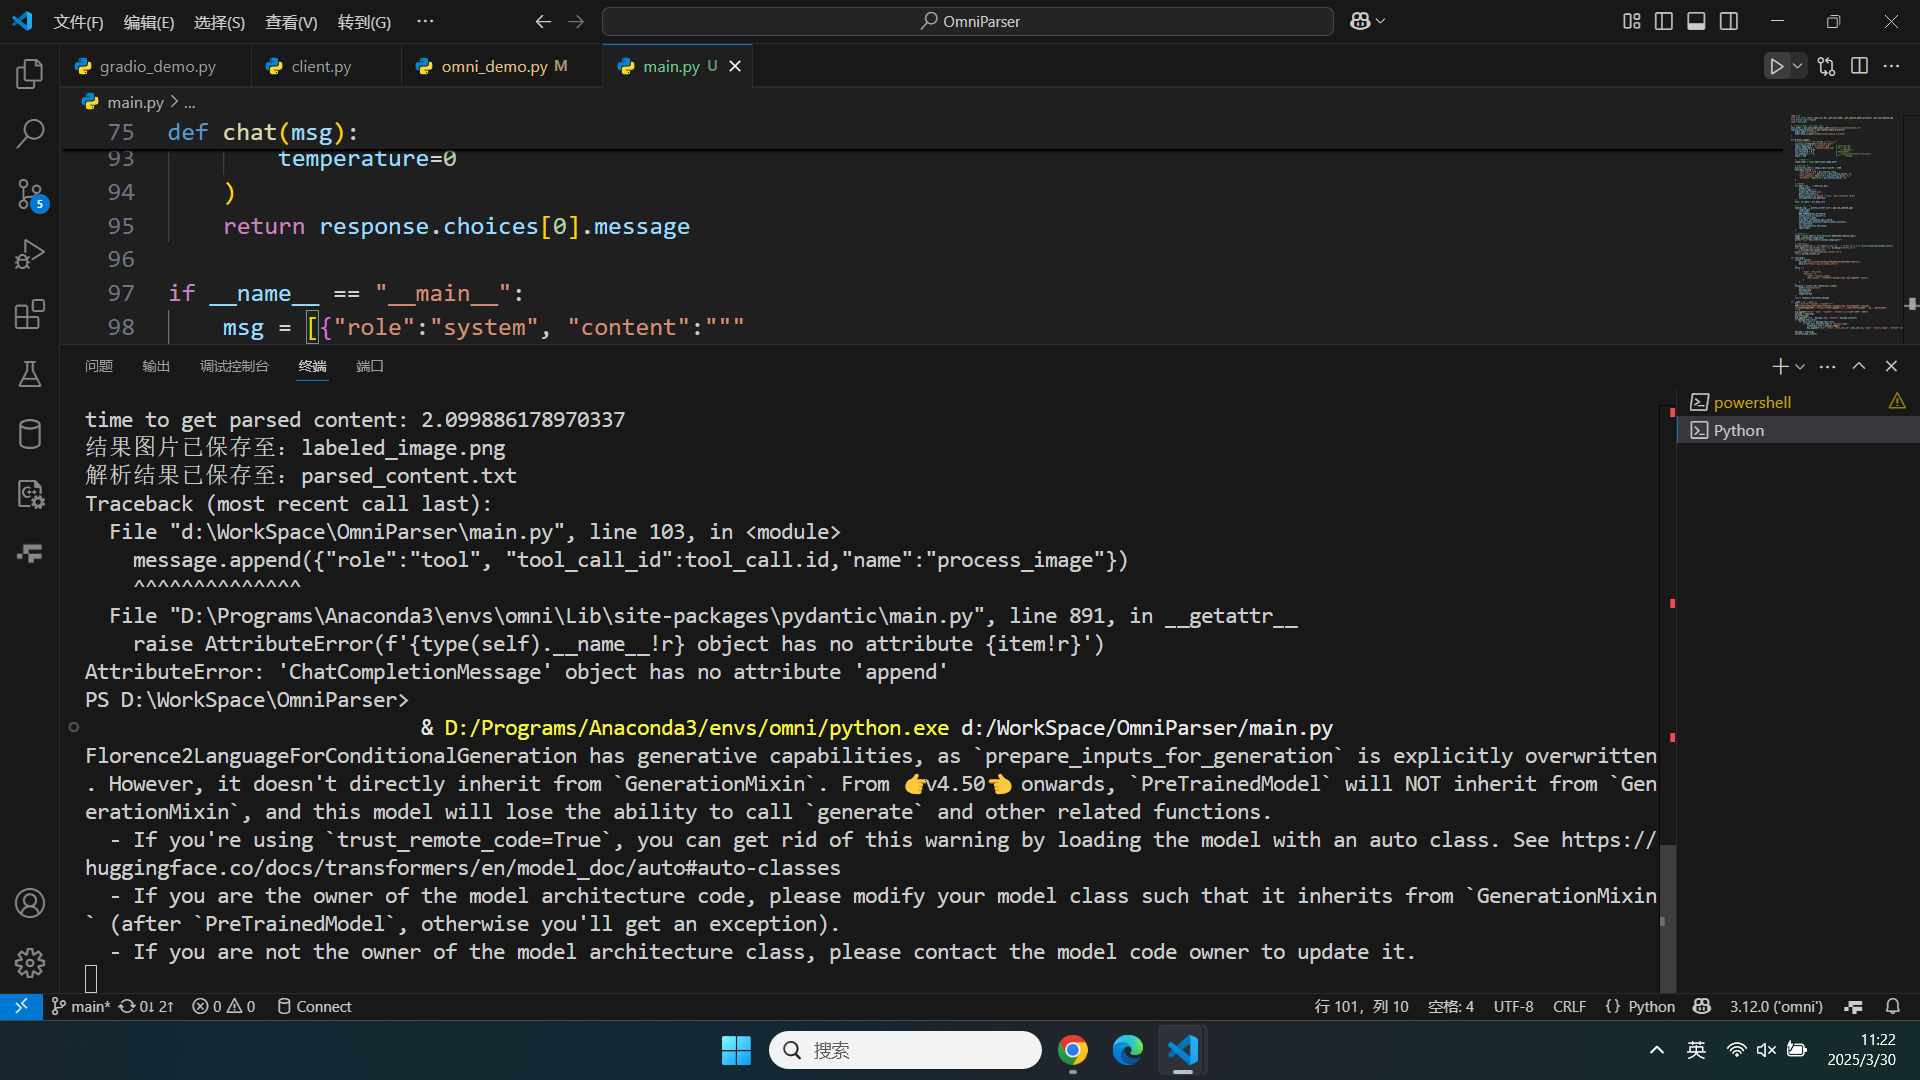
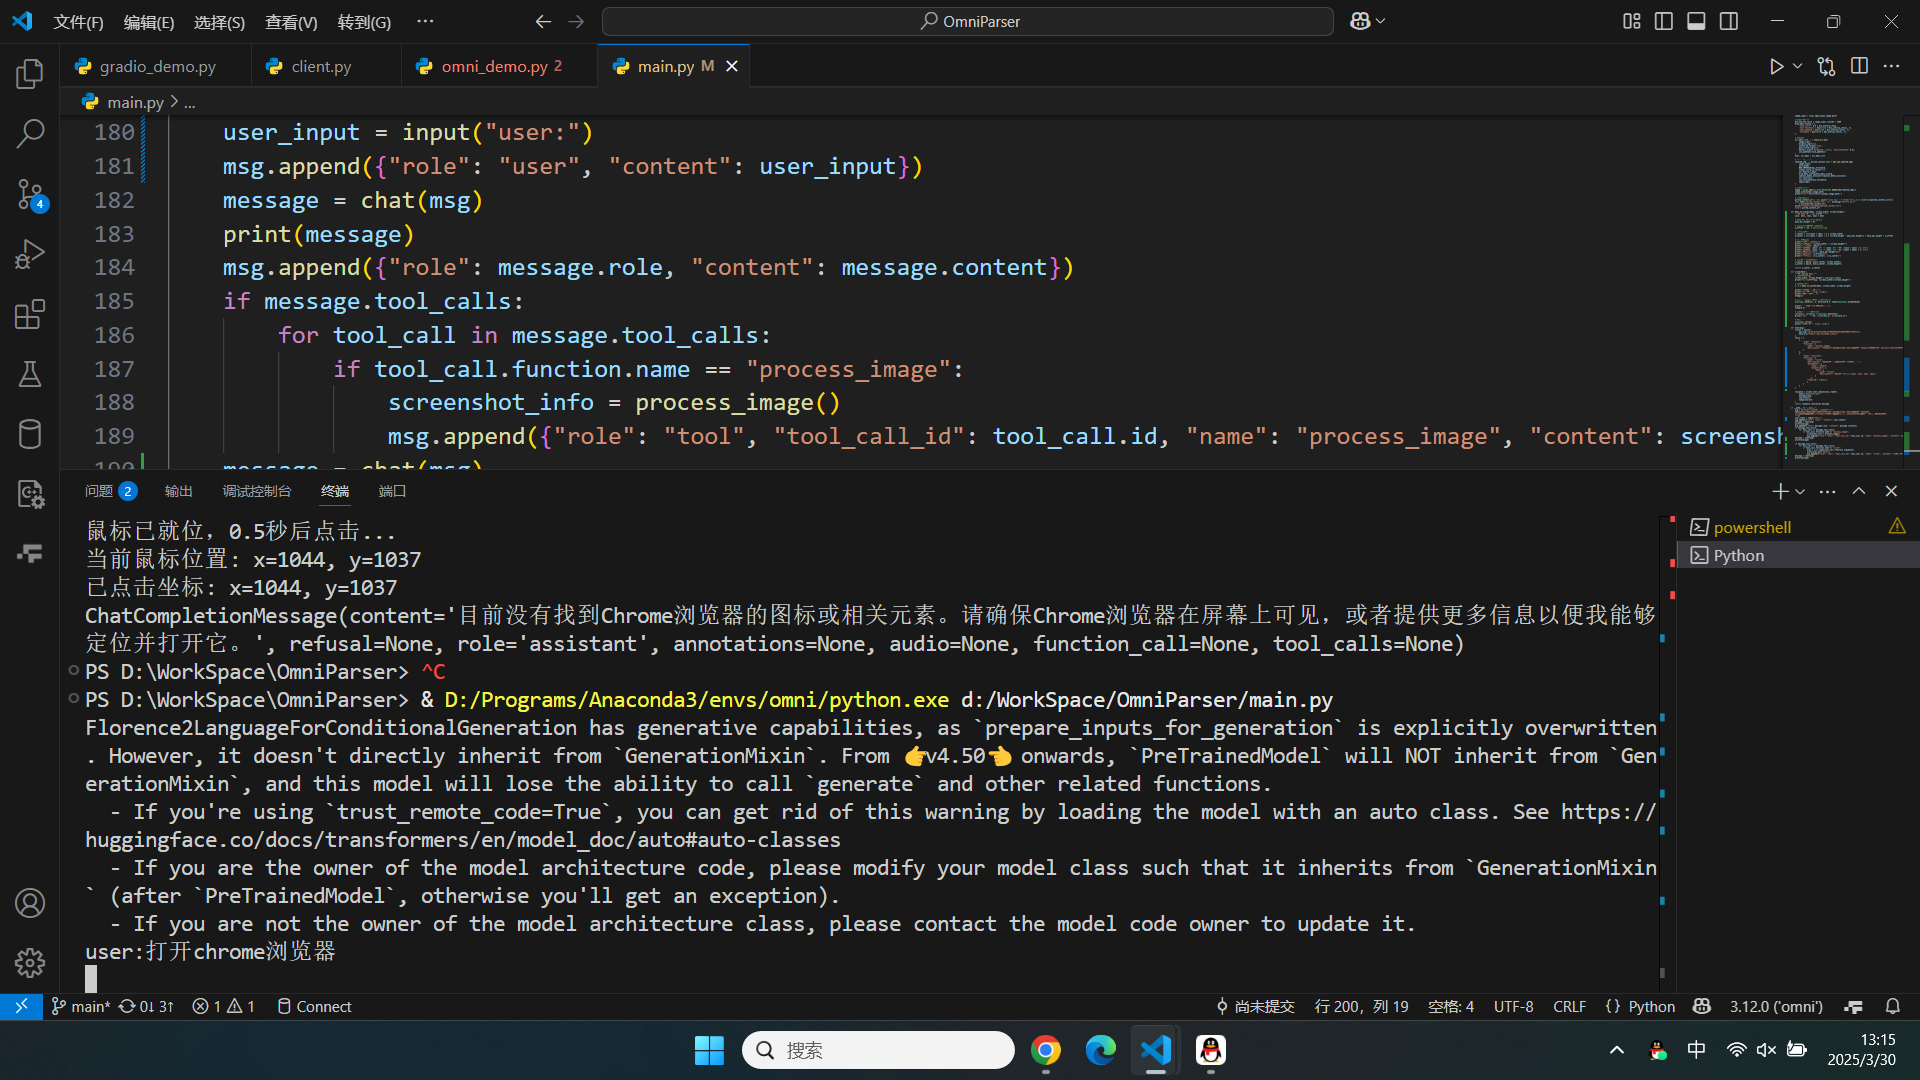
修改main.py，实现用户输入请求（例如：打开chrome浏览器），大模型可以返回需要调用的函数，实现自动化点击。

diff --git a/main.py b/main.py
@@ -5,6 +5,8 @@ import io
 from util.utils import check_ocr_box, get_yolo_model, get_caption_model_processor, get_som_labeled_img
 from openai import OpenAI
 import pyautogui
+from time import sleep
+import json
 
 # 初始化模型（全局只初始化一次）
 yolo_model = get_yolo_model(model_path='weights/icon_detect/model.pt')
@@ -72,6 +74,64 @@ def process_image():
     print(f"解析结果已保存至：parsed_content.txt")
     return parsed_content_str
 
+def bbox_to_coords(bbox, screen_width, screen_height):
+    """将 bbox 坐标转换为屏幕坐标."""
+    xmin, ymin, xmax, ymax = bbox
+
+    # 考虑 Mac 顶部菜单栏的偏移
+    menu_bar_height = 25
+
+    # 向上偏移以避免点击到文件名
+    y_offset = -15  # 向上偏移15像素
+
+    # 计算相对坐标
+    x_center = int((xmin + xmax) / 2 * screen_width)
+    y_center = int((ymin + ymax) / 2 * (screen_height - menu_bar_height)) + menu_bar_height + y_offset
+
+    # 添加调试信息
+    print(f"\n坐标转换详情:")
+    print(f"屏幕尺寸: {screen_width} x {screen_height}")
+    print(f"原始bbox: {bbox}")
+    print(f"x轴变换: {xmin:.4f} -> {xmax:.4f} 中点: {(xmin + xmax) / 2:.4f}")
+    print(f"y轴变换: {ymin:.4f} -> {ymax:.4f} 中点: {(ymin + ymax) / 2:.4f}")
+    print(f"考虑菜单栏偏移: {menu_bar_height}px")
+    print(f"向上偏移: {y_offset}px")
+    print(f"计算结果: x={x_center}, y={y_center}")
+
+    # 确保坐标在屏幕范围内
+    x_center = max(0, min(x_center, screen_width))
+    y_center = max(0, min(y_center, screen_height))
+
+    return x_center, y_center
+
+def click(bbox):
+    """点击指定的 bbox."""
+    # 获取屏幕分辨率
+    screen_width, screen_height = pyautogui.size()
+    print(f"当前屏幕分辨率: {screen_width}x{screen_height}")
+
+    # 获取点击坐标
+    x, y = bbox_to_coords(bbox, screen_width, screen_height)
+
+    print(f"\n即将执行点击:")
+    print(f"目标坐标: x={x}, y={y}")
+    print("1秒准备时间...")
+    sleep(1)
+
+    # 移动鼠标到指定位置（使用缓动效果）
+    pyautogui.moveTo(x, y, duration=0.5, tween=pyautogui.easeOutQuad)
+
+    print("鼠标已就位，0.5秒后点击...")
+    sleep(0.5)
+
+    # 获取当前鼠标位置以验证
+    current_x, current_y = pyautogui.position()
+    print(f"当前鼠标位置: x={current_x}, y={current_y}")
+
+    # 点击鼠标
+    pyautogui.click()
+    print(f"已点击坐标: x={x}, y={y}")
+
 def chat(msg):
     client = OpenAI(
         api_key="sk-Z1rQi13iPuwpTZDzihTP93bEPnZ5knphNJIRR6zLf2GXYlZc",
@@ -82,10 +142,28 @@ def chat(msg):
             "type": "function",
             "function": {
                 "name": "process_image",
-                "description": "识别屏幕中的元素，解析出各个元素的坐标等信息",
+                "description": "识别屏幕中的元素，解析出各个元素的坐标等信息，比如bbox坐标、icon类型、icon内容等。",
             }
         },
+        {
+            "type": "function",
+            "function": {
+                "name": "click",
+                "description": "将bbox坐标转换成屏幕坐标，并点击鼠标",
+                "parameters": {
+                    "type": "object",
+                    "properties": {
+                        "bbox": {
+                            "type": "array",
+                            "description": "bbox坐标，格式为[xmin, ymin, xmax, ymax]"
+                        }
+                    },
+                "required": ["bbox"]
+                }
+            }
+        }
     ]
+
     response = client.chat.completions.create(
         model="deepseek-chat",
         messages=msg,
@@ -99,7 +177,8 @@ if __name__ == "__main__":
     你可以处理用户的请求，例如：识别屏幕中的元素，解析出各个元素的坐标等信息。
     当用户的要求需要操作计算机才能完成时，你需要自主进行屏幕截屏识别元素并执行点击和键盘输入操作
     """}]
-    msg.append({"role": "user", "content": "chrome浏览器在屏幕中的坐标是？"})
+    user_input = input("user:")
+    msg.append({"role": "user", "content": user_input})
     message = chat(msg)
     print(message)
     msg.append({"role": message.role, "content": message.content})
@@ -108,6 +187,14 @@ if __name__ == "__main__":
             if tool_call.function.name == "process_image":
                 screenshot_info = process_image()
                 msg.append({"role": "tool", "tool_call_id": tool_call.id, "name": "process_image", "content": screenshot_info})
-
     message = chat(msg)
-    print(message.content)
+    print(message)
+
+    if message.tool_calls:
+        for tool_call in message.tool_calls:
+            if tool_call.function.name == "click":
+                args = json.loads(tool_call.function.arguments)
+                click(args.get("bbox"))
+                msg.append({"role": "tool", "tool_call_id": tool_call.id, "name": "click", "content": "已点击坐标"})
+    message = chat(msg)
+    print(message)
